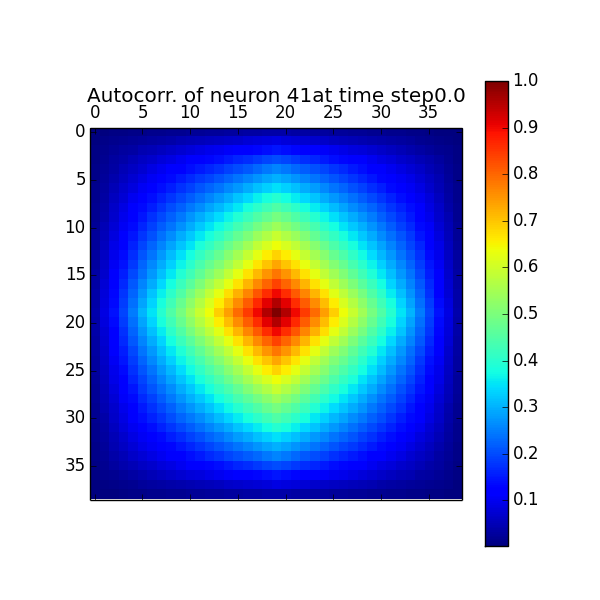
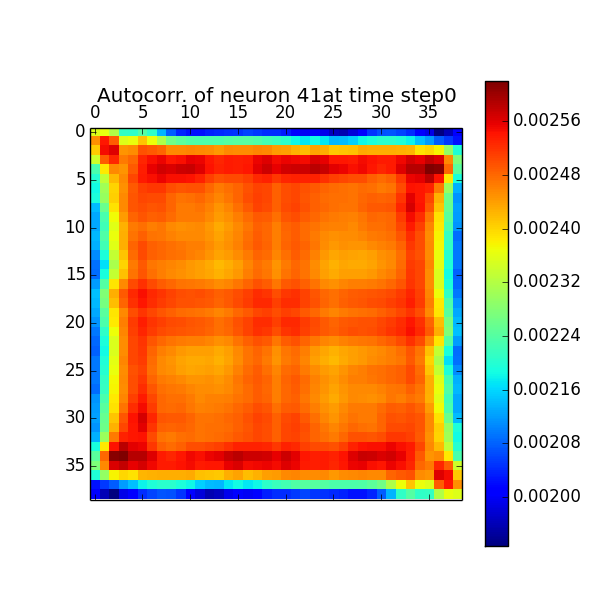
update autocorrels

diff --git a/fast_output_layer_batch.py b/fast_output_layer_batch.py
@@ -20,6 +20,8 @@ class FastOutputLayerBatch:
         self.output_layer_outputs = np.zeros((self.total_input_size, self.output_size))  # time-step x 100
         self.output_save = np.zeros((number_of_batches, self.output_size))  # save output every 10000 timesteps
         self.weight_save = np.zeros((number_of_batches, self.output_size * self.input_size))
+        self.param_save = np.zeros((number_of_batches, 2)) #g, mu
+
         self.max_optim_iters = 100
 
         # layer parameters
@@ -95,7 +97,15 @@ class FastOutputLayerBatch:
         w = np.reshape(self.weights, np.size(self.weights), order='F')
         self.output_save[self.last_batch, :] = self.activation_fun(self.g, self.mu, self.r_plus)
         self.weight_save[self.last_batch, :] = w
+        self.param_save[self.last_batch, 0] = self.g
+        self.param_save[self.last_batch, 1] = self.mu
         self.last_batch +=1
+
+
+    def compute_outputs(self, input):
+        h = np.dot(self.weights, input)  # results in size: (100,)
+        h.reshape(np.shape(self.r_plus)) #to be on the safe side
+        return self.activation_fun(self.g, self.mu, h)
 
 
     def normalize_weights(self):
@@ -105,3 +115,5 @@ class FastOutputLayerBatch:
     def save_data_to_disk(self):
         np.savez("firing_rate", self.output_save)
         np.savez("weights", self.weight_save)
+        np.savez("params", self.param_save)
+

diff --git a/plot_expected_firing_rates.py b/plot_expected_firing_rates.py
@@ -7,14 +7,25 @@ neurons_indices_to_plot = [12, 14, 16, 41]
 
 PATH = './results/9M/'
 WEIGHTS_FILE = 'weights.npz'
-RATE_FILE = 'firing_rate.npz'
 weight_f = np.load(PATH + WEIGHTS_FILE)
-rate_f = np.load(PATH + RATE_FILE)
+
 
 network_size = (100, 400)
 
 arr = weight_f['arr_0']
 (no_rows, no_cols) = np.shape(arr)
+
+firing_rate = np.zeros(50, 50)
+
+last_weights = np.reshape(arr[no_rows - 1, :], (network_size[0], 400), order='F')
+
+#generate rat data
+for i in np.linspace(-62.5, 62.5, 50):
+    for j in np.linspace(-62.5, 62.5, 50):
+        r = input_neuron.input_rates(np.array([i, j]))
+        h = np.dot(last_weights, r)
+        firing_rate[i,j] = activation_fun()
+
 
 for time_step in np.linspace(0, 100, 11):
 
@@ -34,3 +45,7 @@ for time_step in np.linspace(0, 100, 11):
         plt.title('Autocorr. of neuron ' + str(i) + 'at time step' + str(int(time_step)))
         plt.savefig(PATH + '/selected_neurons/2neuron_a_' + str(i) + '_t_' + str(int(time_step)) + '.png', format="png")
         plt.close()
+
+def activation_fun(g, mu, r_plus):
+    val = 2.0 / np.pi * np.arctan(g * (r_plus - mu)) * 0.5 * (np.sign(r_plus - mu) + 1.0)
+    return val

diff --git a/plot_all_autocorrels.py b/plot_all_autocorrels.py
@@ -3,21 +3,27 @@ import autocorrelation
 import matplotlib.pyplot as plt
 import input_neuron
 
-PATH = './'
+SUB_DIR = './results/9M'
 FILE = 'weights.npz'
-f = np.load(PATH + FILE)
+f = np.load(SUB_DIR + '/' + FILE)
 
 network_size = (100, 400)
 
 arr = f['arr_0']
 (no_rows, no_cols) = np.shape(arr)
-last_weights = np.reshape(arr[no_rows-2,:], (network_size[0], 400), order='F')
+last_weights = np.reshape(arr[no_rows-1,:], (network_size[0], 400), order='F')
 
 for i in range(network_size[0]):
     weights = input_neuron.reshape_vec_to_grid(last_weights[i,:])
     plt.matshow(weights)
     plt.colorbar()
-    plt.title('Neuron ' + str(i))
-    plt.show()
-    plt.matshow(autocorrelation.autocorrelation(weights))
-    plt.show()
+    plt.title('Weights of neuron ' + str(i))
+    plt.savefig(SUB_DIR + '/neuron_w_' + str(i) +'.png', format="png")
+    plt.close()
+
+    plt.matshow(autocorrelation.autocorrelation_normalized(weights))
+    plt.colorbar()
+    plt.title('Autocorr. of neuron ' + str(i))
+    plt.savefig(SUB_DIR + '/neuron_a_' + str(i) +'.png', format="png")
+    plt.close()
+

diff --git a/main_batch.py b/main_batch.py
@@ -4,15 +4,14 @@ import rat_simulator
 import matplotlib.pyplot as plt
 import datetime
 import numpy as np
-from scipy import sparse, io
 import autocorrelation
-import os
 
-SUB_DIR = '9M'
-FILENAME = 'data/Rat_Data_9M.txt'
+
+SUB_DIR = '36M'
+FILENAME = 'data/Rat_Data_36M.txt'
 # INPUT_LAYER_OUTPUTS = 'results/' + SUB_DIR + '/input_layer.mtx'
 
-NUMBER_OF_BATCHES = 100
+NUMBER_OF_BATCHES = 400
 
 print 'reading data'
 rat_data = rat_simulator.rat_txt_to_matrix(FILENAME)
@@ -50,7 +49,7 @@ for i in range(100):
     plt.savefig('results/' + SUB_DIR + '/neuron_w_' + str(i) +'.png', format="png")
     plt.close()
 
-    plt.matshow(autocorrelation.autocorrelation(weights))
+    plt.matshow(autocorrelation.autocorrelation_normalized(weights))
     plt.colorbar()
     plt.title('Autocorr. of neuron ' + str(i))
     plt.savefig('results/' + SUB_DIR + '/neuron_a_' + str(i) +'.png', format="png")

diff --git a/rat_simulator.py b/rat_simulator.py
@@ -4,8 +4,8 @@
 import numpy as np
 import matplotlib.pyplot as plt
 
-TOTAL_DURATION_IN_MS = 5e4
-FILE = "data/Rat_Data_9M.txt"
+TOTAL_DURATION_IN_MS = 36e7
+FILE = "data/Rat_Data_36M_r.txt"
 
 def compute_new_position(x,y,phi,r):
     x_new=x+(r*np.cos(phi))
@@ -53,7 +53,7 @@ def rat_txt_to_matrix(filename):
 
 def main():
     rat=running_rat(TOTAL_DURATION_IN_MS)
-    plot_rat_trajectory(rat)
+    # plot_rat_trajectory(rat)
     rat2txt(rat)
     # outputthing = rat_txt_to_matrix(FILE)
     # print outputthing.shape

diff --git a/autocorrelation.py b/autocorrelation.py
@@ -1,6 +1,12 @@
 # -*- coding: utf-8 -*-
+import numpy as np
 
 from scipy.signal import correlate2d
 
 def autocorrelation(X):
     return correlate2d(X, X, boundary='fill', fillvalue=0.)
+
+def autocorrelation_normalized(X):
+    corr = correlate2d(X, X, boundary='fill', fillvalue=0.)
+    one_corr = correlate2d(np.ones(np.shape(X)), np.ones(np.shape(X)), boundary='fill', fillvalue=0.)
+    return np.divide(corr, one_corr)
